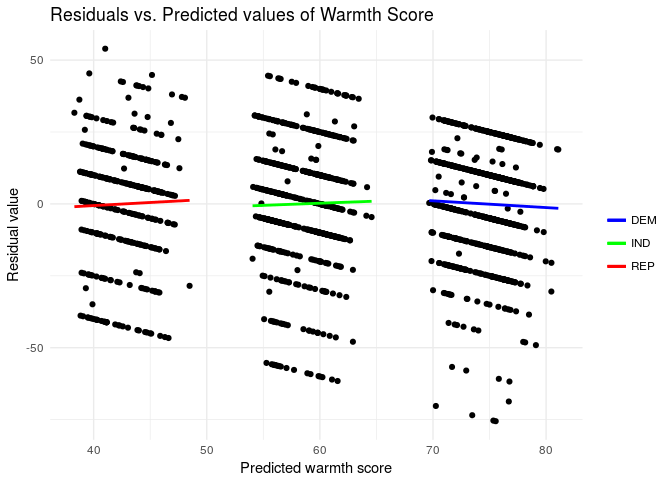
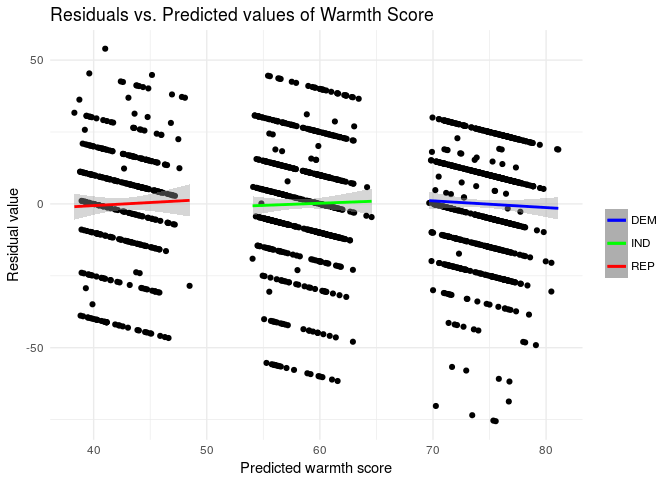
Made the second graph with geom_smooth

diff --git a/students/McClellan_Julian/PS5/script.md b/students/McClellan_Julian/PS5/script.md
@@ -141,7 +141,7 @@ The *R*<sup>2</sup> of the model is 0.0272273. Thus, the percentage of variation
 
 ![](script_files/figure-markdown_github/residpredplot-1.png)
 
-There is indeed a problem in the model. By plotting 3 smooth fit regression lines for the residuals on the predicted values of warmth score for each of the three possible affiliations (Democrat, Republican, and Independent), we see that being a Democrat, Indepndent, or Republican have distinct effects on the residual values! This suggests that we should include party affiliation within our model, as we want to integrate these separate party effects into our model.
+There is indeed a problem in the model. By plotting 3 smooth fit regression lines and corresponding 95% confidence intervals for the residuals on the predicted values of warmth score for each of the three possible affiliations (Democrat, Republican, and Independent), we see that being a Democrat, Independent, or Republican have distinct effects on the residual values! This suggests that we should include party affiliation within our model, as we want to integrate these separate party effects into our model.
 
 Multiple Linear Regression Model (More Variable)
 ================================================
@@ -174,7 +174,7 @@ The *R*<sup>2</sup> of the model is 0.2815391. Thus, the percentage of variation
 
 ![](script_files/figure-markdown_github/residpredplot2-1.png)
 
-We did indeed fix the previous problem. Before the, the smooth fit regression lines for each of the three possible party affiliations was distinct, with slightly differing slopes and very different (visually) intercepts. Now, however, after we have included party affiliation into our model, we see that all three smooth fit lines for Democrats, Republicans, and Independents have a slope of approximately 0 as well as a 0 intercept. They are all quite similar now, suggesting that in our current model that party affiliation, or lack thereof, has no effect on our residuals.
+We did indeed fix the previous problem. Before the, the smooth fit regression lines and corresponding confidence intervals for each of the three possible party affiliations was distinct, with slightly differing slopes and very different (visually) intercepts. Now, however, after we have included party affiliation into our model, we see that all three smooth fit lines for Democrats, Republicans, and Independents have a slope of approximately 0 as well as a 0 intercept. They are all quite similar now, suggesting that in our current model that party affiliation, or lack thereof, has no effect on our residuals.
 
 Note however, that there is still a distinct pattern to the residuals. While this is not ideal, it is because `age`, and years of education (`educ`) are only measured as integers in our data, and since we did not include them as factors (which would be cumbersome, to be honest) in our model, they are treated as if they exist in the real numbers.
 
